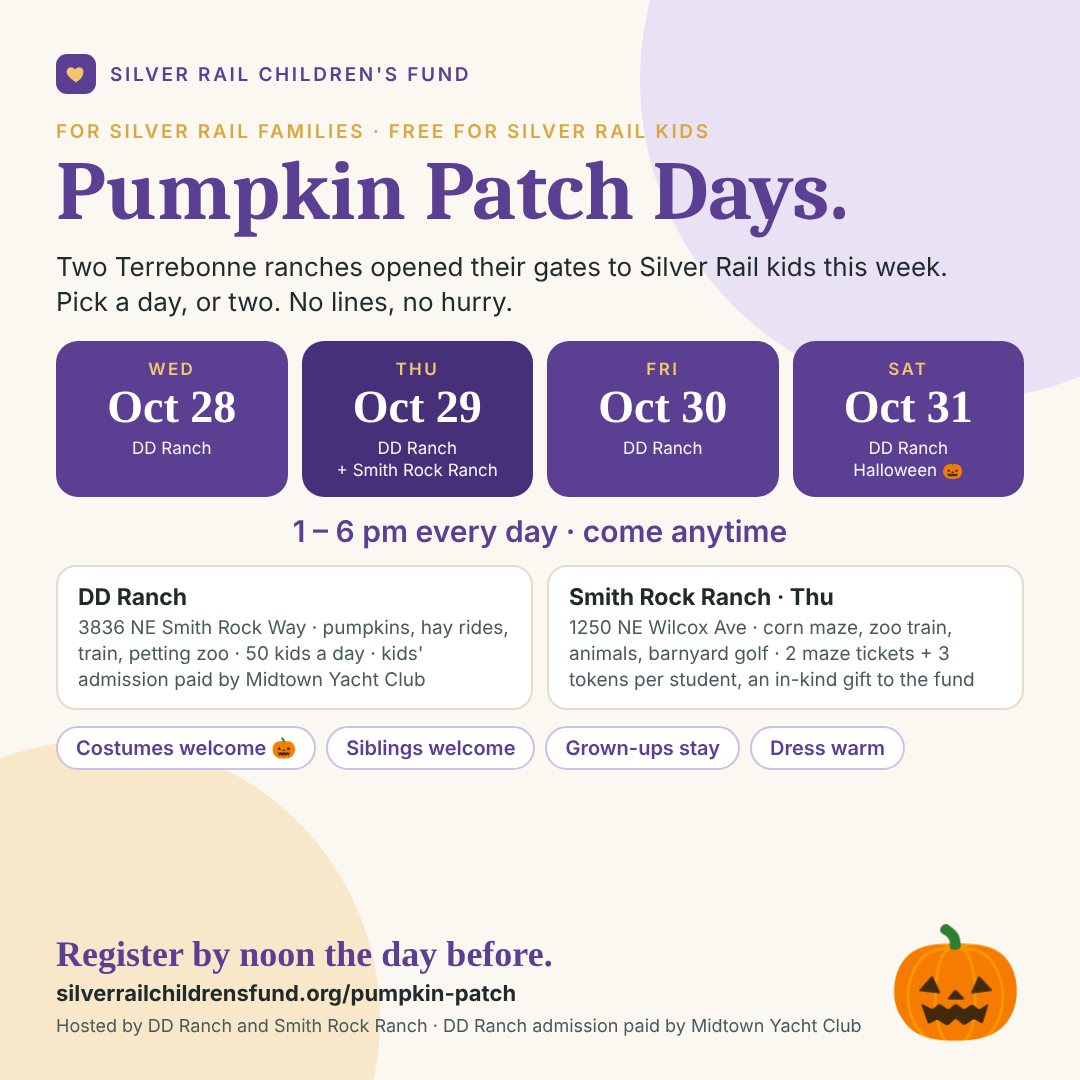
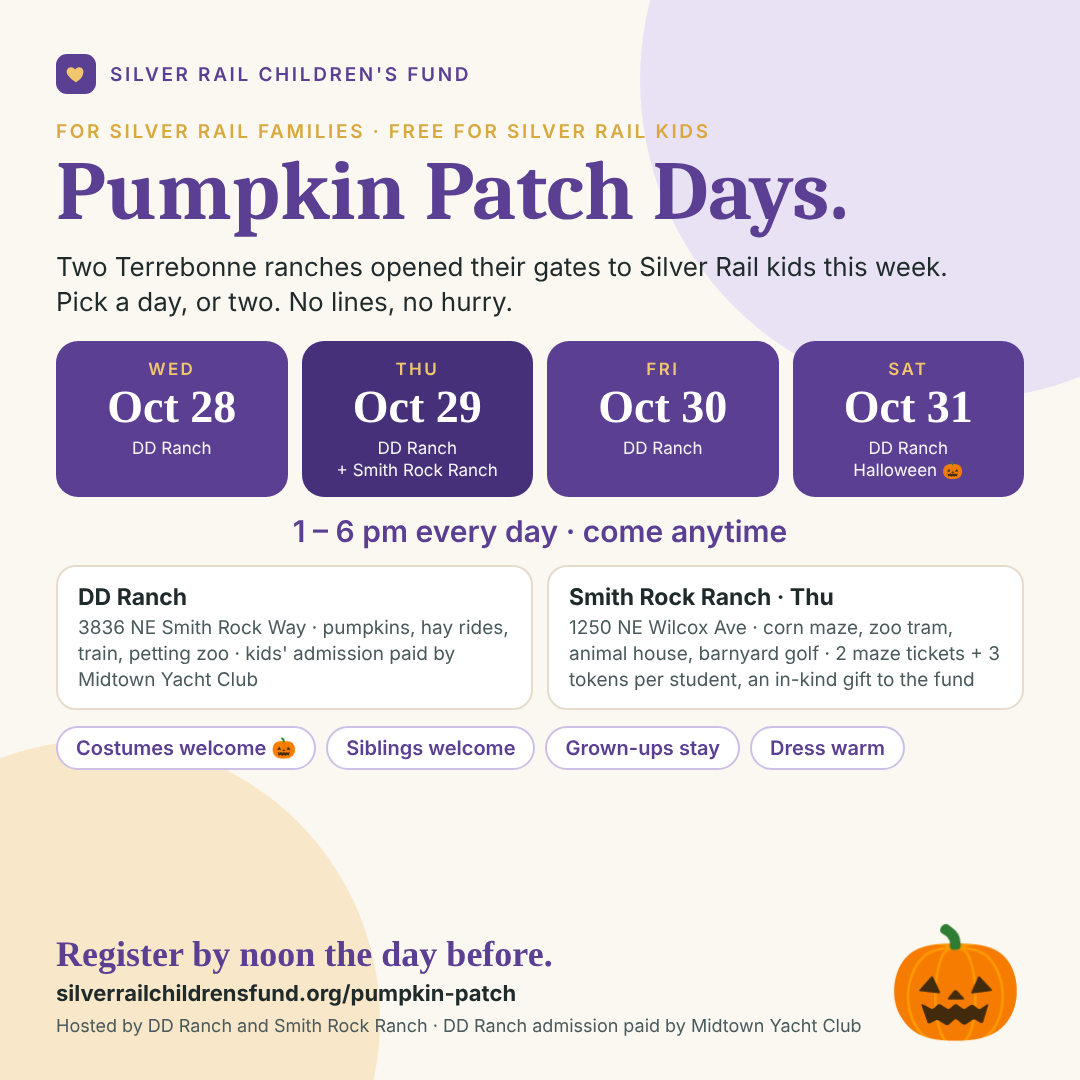
Pumpkin Patch Days: zoo tram wording, caps internal, acknowledgment text
Claude-Session: https://claude.ai/code/session_015iqZ7GukyYKBWLVqzLKjws

Changed region(s): [[0.0611, 0.5806, 0.4278, 0.6417], [0.5806, 0.5806, 0.8861, 0.6111]]

diff --git a/pumpkin-patch.html b/pumpkin-patch.html
@@ -184,13 +184,13 @@ footer.sf .sf-legal a{color:var(--ink-2)}
 <section id="when">
   <div class="wrap">
     <h2>Pick your day.</h2>
-    <p class="note" style="max-width:720px">DD Ranch days are capped at <b>50 Silver Rail children per day</b> so the ranch can keep it unhurried; when a day fills, it'll show here as full. Smith Rock Ranch on Thursday has no cap. You're welcome to register for more than one day.</p>
+    <p class="note" style="max-width:720px">Each day has a limit so the ranches can keep it unhurried; when a day fills, it'll show here as full. You're welcome to register for more than one day.</p>
     <div class="sess" style="max-width:1140px;grid-template-columns:repeat(auto-fit,minmax(240px,1fr))">
-      <div class="card open"><span class="tag go">Open</span><b>Wed, Oct 28</b><p>1:00 – 6:00 pm<br>DD Ranch<br>3836 NE Smith Rock Way, Terrebonne<br>Silver Rail kids free · 50 spots</p></div>
-      <div class="card open"><span class="tag go">Open</span><b>Thu, Oct 29</b><p>1:00 – 6:00 pm<br>DD Ranch<br>3836 NE Smith Rock Way, Terrebonne<br>Silver Rail kids free · 50 spots</p></div>
+      <div class="card open"><span class="tag go">Open</span><b>Wed, Oct 28</b><p>1:00 – 6:00 pm<br>DD Ranch<br>3836 NE Smith Rock Way, Terrebonne<br>Silver Rail kids free</p></div>
+      <div class="card open"><span class="tag go">Open</span><b>Thu, Oct 29</b><p>1:00 – 6:00 pm<br>DD Ranch<br>3836 NE Smith Rock Way, Terrebonne<br>Silver Rail kids free</p></div>
       <div class="card open"><span class="tag go">Open</span><b>Thu, Oct 29</b><p>1:00 – 6:00 pm<br>Smith Rock Ranch<br>1250 NE Wilcox Ave, Terrebonne<br>2 maze tickets + 3 tokens per student</p></div>
-      <div class="card open"><span class="tag go">Open</span><b>Fri, Oct 30</b><p>1:00 – 6:00 pm<br>DD Ranch<br>3836 NE Smith Rock Way, Terrebonne<br>Silver Rail kids free · 50 spots</p></div>
-      <div class="card open"><span class="tag go">Open</span><b>Sat, Oct 31</b><p>1:00 – 6:00 pm · Halloween<br>DD Ranch<br>3836 NE Smith Rock Way, Terrebonne<br>Silver Rail kids free · 50 spots</p></div>
+      <div class="card open"><span class="tag go">Open</span><b>Fri, Oct 30</b><p>1:00 – 6:00 pm<br>DD Ranch<br>3836 NE Smith Rock Way, Terrebonne<br>Silver Rail kids free</p></div>
+      <div class="card open"><span class="tag go">Open</span><b>Sat, Oct 31</b><p>1:00 – 6:00 pm · Halloween<br>DD Ranch<br>3836 NE Smith Rock Way, Terrebonne<br>Silver Rail kids free</p></div>
     </div>
     <div class="keep" style="margin-top:26px;max-width:1140px">
       <div>
@@ -205,7 +205,7 @@ footer.sf .sf-legal a{color:var(--ink-2)}
       <div>
         <h3>Smith Rock Ranch · Thursday only</h3>
         <ul>
-          <li>The corn maze (The Flintstones this year), the zoo train, the animal house, barnyard golf, and the Snoopy ride. Not running Thursday: pumpkin cannons, hayride, pony rides, shooting gallery.</li>
+          <li>The corn maze, the zoo tram, the animal house, barnyard golf, and the Snoopy ride. Not running Thursday: pumpkin cannons, hayride, pony rides, shooting gallery.</li>
           <li>Each Silver Rail student gets two maze tickets and three activity tokens from the ranch, an in-kind donation to the fund. Parents and siblings can buy extras at the gate or online.</li>
           <li>The ranch said yes in the middle of its busiest week and a family emergency of its own. We won't forget it.</li>
         </ul>
@@ -226,7 +226,18 @@ footer.sf .sf-legal a{color:var(--ink-2)}
   <div class="wrap">
     <div class="eyebrow">Register</div>
     <h2>Tell us which day.</h2>
-    <p class="note" style="max-width:640px">One form per family. Register by <b>noon the day before</b> so we can give the ranch a headcount and have you on the gate list. DD Ranch days close at 50 children. Your answers go to the fund's own private Google Workspace and nowhere else. Not registered with the fund yet? That's fine; this form is all you need this week.</p>
+    <p class="note" style="max-width:640px">One form per family. Register by <b>noon the day before</b> so we can give the ranch a headcount and have you on the gate list. Your answers go to the fund's own private Google Workspace and nowhere else. Not registered with the fund yet? That's fine; this form is all you need this week.</p>
+    <div class="kids" style="max-width:720px;margin-bottom:18px">
+      <strong>What you're agreeing to when you register</strong>
+      <p style="margin:8px 0 0;font-size:.95rem;color:var(--ink-2)">The form includes this short acknowledgment. It's here so you can read it first.</p>
+      <ul style="font-size:.95rem">
+        <li>I'm the parent or legal guardian of the children I'm registering, and I'll stay with them the whole time we're at the ranch.</li>
+        <li>I understand the Silver Rail Children's Fund is paying for or arranging admission, and that the ranch runs the activities under its own rules, staff, and insurance. The fund's volunteers check families in; they don't supervise children.</li>
+        <li>I understand a farm has animals, uneven ground, farm equipment, and rides, and I accept the ordinary risks of a day there for myself and my children, the same as any other visitor.</li>
+        <li>If someone in my family gets hurt, I'll tell ranch staff right away and let the fund know afterward.</li>
+        <li>No one will photograph or name my children for the fund's website or social media unless I say so separately. I can say yes or no on the form.</li>
+      </ul>
+    </div>
     <div class="formbox" style="max-width:720px" id="formbox">
       <!--FORM-->
       <div style="padding:28px">
